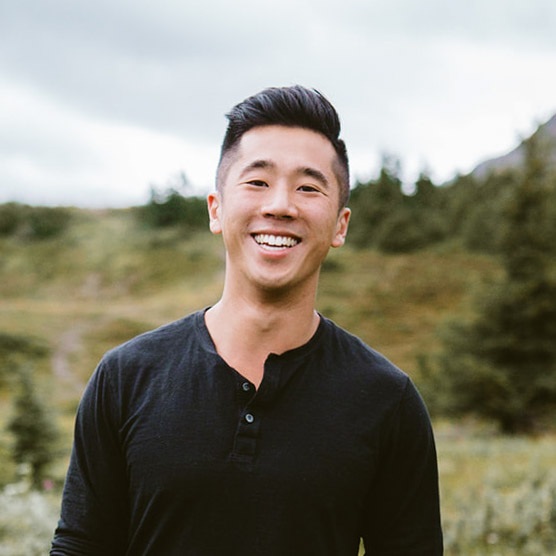
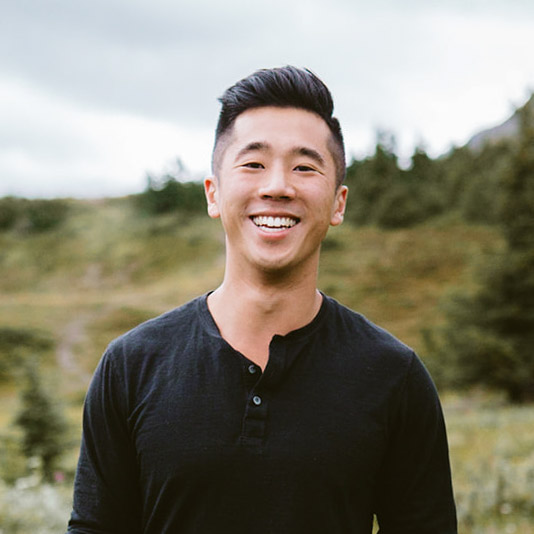
Change source name to match new profile image

diff --git a/index.html b/index.html
@@ -34,7 +34,7 @@
     </header> -->
     <main>
       <section id="about">
-        <img class="profile-image" src="assets/profile.jpg" alt="" />
+        <img class="profile-image" src="assets/profile_2.jpg" alt="" />
         <div class="about-text">
           <p>Hello! I'm Matt, a UC Berkeley graduate and software developer.</p>
           <p>
